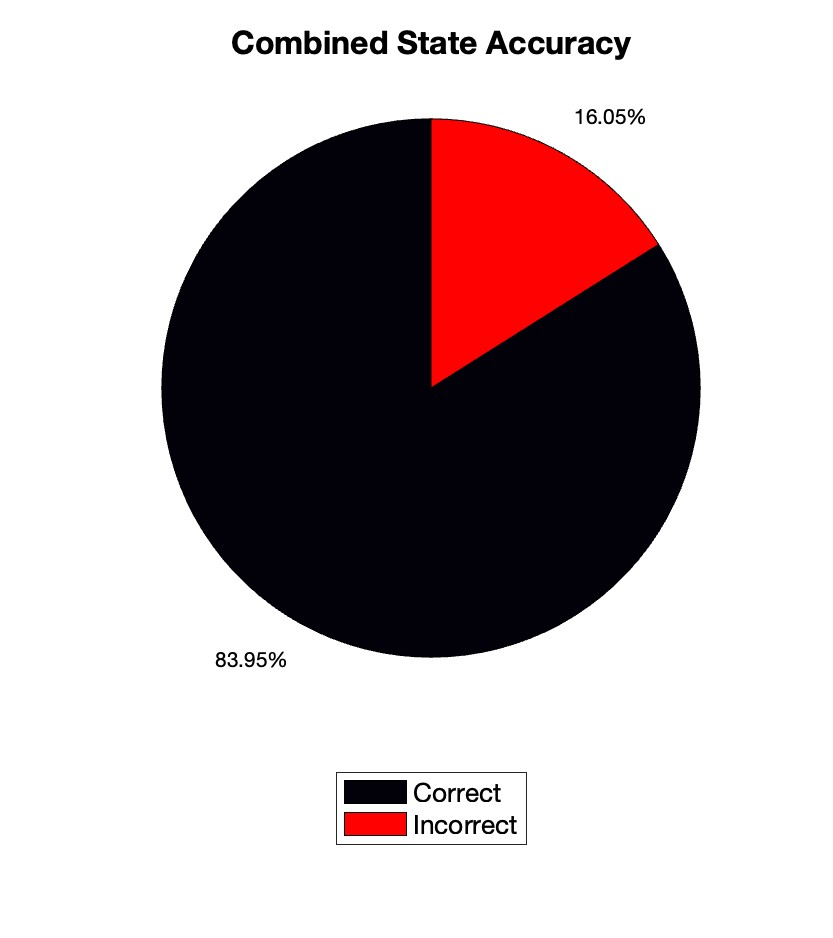
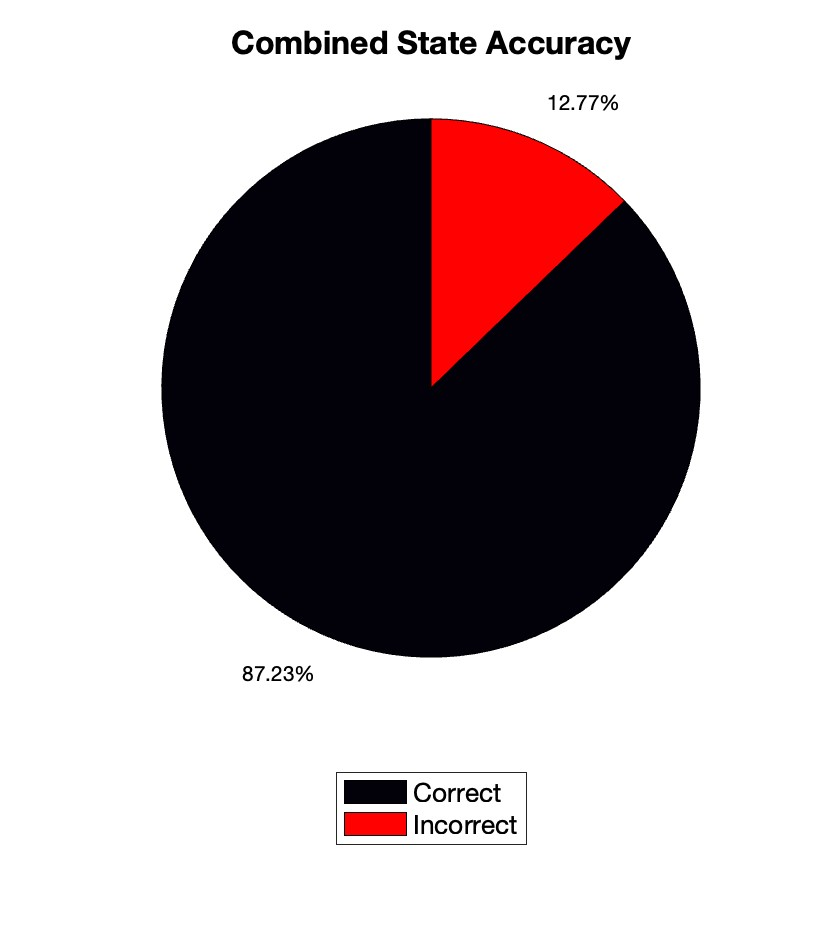
Working with Lezio, added 16 sessions of vole data, ~81% state match (see figures)

Changed region(s): [[0.5306, 0.2164, 0.8115, 0.4019], [0.6555, 0.0928, 0.7803, 0.1546], [0.2497, 0.6802, 0.3745, 0.742]]

diff --git a/run_voleAxyStates.m b/run_voleAxyStates.m
@@ -1,0 +1,139 @@
+basePath = '/Users/mattgaidica/Documents/MATLAB/WatsonLFPs/VoleData';
+files = dir2(basePath,'*.mat');
+
+% for squirrel-axy algorithm
+senseParams = {};
+senseParams.thresh = 0;
+senseParams.w_kmeans = 0;
+senseParams.w_temp = 0;
+senseParams.w_tempGrad = 0;
+senseParams.w_odba = 1;
+senseParams.sm_tempGrad = 0;
+senseParams.sm_odba = 1;
+senseParams.fixTransitions = 0;
+senseParams.offset_odba = 0;
+
+nFilt = 60; % dynamic ODBA filter
+windowSize = 5; % seconds
+nEpisodes = 1000; % episodes per subject
+
+actualStates = string;
+predictedStates = string;
+matchSum = 0; % running count of matched states
+episodeCount = 0; % across all subjects
+matchPerSubject = zeros(numel(files),1);
+
+for iFile = 1:numel(files)
+    fprintf("loading %s...\n",files(iFile).name);
+    load(fullfile(basePath,files(iFile).name));
+    % transform axy into 1Hz
+    axy = double(downsample(Accel3D,SamplFreqHz));
+    % apply ODBA filter
+    odba = filtGetOdba(axy,nFilt);
+    % set data we would have from squirrels to zeros
+    temp = zeros(size(odba)); % rm
+    nest = zeros(size(odba)); % rm
+    % run squirrel algorithm
+    [binNestSense,sense] = nestSenseAlg(temp,odba,nest,senseParams);
+
+    % pluck random episodes from axy data, compare with squirrel algorithm
+    oldMatchSum = matchSum;
+    for iEpisode = 1:nEpisodes
+        episodeCount = episodeCount + 1;
+        startTime = randi([1,numel(odba)-windowSize]); % random
+        tryRange = startTime:startTime+windowSize-1; % make into a range
+        actualStates(episodeCount) = findVoleState(SleepScoringSeconds,tryRange); % classify
+        % note: binNestSense is a sleep detector (1=sleep)
+        if all(binNestSense(tryRange)==1)
+            predictedStates(episodeCount) = "sleep";
+        elseif all(binNestSense(tryRange)==0)
+            predictedStates(episodeCount) = "wake";
+        else % if binNestSense(tryRange) is a mixture of 1's and 0's
+            predictedStates(episodeCount) = "transition";
+        end
+        % compare states based on sleep, wake, or transition to get
+        % prediction accuracy (ie, matchSum is how often states match)
+        if any(strcmp(actualStates(episodeCount),["nrem","rem"])) && strcmp(predictedStates(episodeCount),"sleep")
+            matchSum = matchSum + 1;
+        elseif any(strcmp(actualStates(episodeCount),["nwake","wake"])) && strcmp(predictedStates(episodeCount),"wake")
+            matchSum = matchSum + 1;
+        elseif strcmp(actualStates(episodeCount),"transition") && strcmp(predictedStates(episodeCount),"transition")
+            matchSum = matchSum + 1;
+        end % else do not increment
+    end
+    matchPerSubject(iFile,1) = (matchSum-oldMatchSum)/nEpisodes;
+end
+
+ff(600,300);
+bar(matchPerSubject,'FaceColor','k');
+ylabel('State Match Probability');
+xlabel('Recording Session');
+title('State Match Probability vs. Recording Session');
+set(gca,'fontsize',14);
+xticks(1:numel(files));
+saveas(gcf,'stateMatchProbability_voles.jpg');
+
+fprintf("state match: %i/%i = %1.2f%% (n=%i voles)\n",matchSum,episodeCount,100*matchSum/episodeCount,numel(files));
+%%
+close all;
+ff(1200,700);
+rows = 2;
+cols = 3;
+
+subplot(rows,cols,1:3);
+plot(odba,'k-');
+ylabel('3D-ODBA');
+
+yyaxis right;
+plot(-binNestSense,'r-','lineWidth',2);
+% hold on;
+% plot(-sense.nest,'color',[0,0,0,0.5],'LineStyle',':');
+ylim([-1 2]);
+xlabel('seconds');
+legend({'3D-ODBA (vole)','Algorithm Prediction'});
+set(gca,'ycolor','r');
+yticks([-1 0]);
+yticklabels({'sleep','wake'});
+% ylabel('algorithm');
+ylim([-4,2]);
+xlim([1,numel(odba)]);
+set(gca,'FontSize',14);
+title("Example Episode (n=1 vole)");
+
+subplot(rows,cols,4);
+p = pie([matchSum/episodeCount,1-matchSum/episodeCount],'%.2f%%');
+colors = magma;
+p(1).FaceColor = colors(1,:,:);
+p(3).FaceColor = colors(end,:,:);
+title('Combined State Accuracy');
+set(gca,'FontSize',14);
+legend({'Correct','Incorrect'},'location','southoutside');
+
+counts = [sum(strcmp(actualStates,"nrem")),sum(strcmp(actualStates,"rem")),sum(strcmp(actualStates,"wake")),...
+    sum(strcmp(actualStates,"nwake")),sum(strcmp(actualStates,"transition"))] ./ episodeCount;
+countLabels = {"NREM","REM","WAKE","NOISY WAKE","TRANSITION"};
+subplot(rows,cols,5);
+lc = lines(5);
+colors = [lc(1,:);lc(1,:);lc(3,:);lc(3,:);lc(5,:)];
+bar(counts,'FaceColor', 'flat', 'CData', colors);
+xticks(1:numel(countLabels));
+xticklabels(countLabels);
+set(gca,'fontSize',14);
+title(sprintf("Actual States\n%i episodes, %i subjects",episodeCount,numel(files)));
+ylabel("Episode Probability");
+% ylim([0,0.75]);
+xtickangle(30);
+
+counts = [sum(strcmp(predictedStates,"sleep")),sum(strcmp(predictedStates,"wake")),sum(strcmp(predictedStates,"transition"))] ./ nEpisodes;
+countLabels = {"SLEEP","WAKE","TRANSITION"};
+subplot(rows,cols,6);
+colors = [lc(1,:);lc(3,:);lc(5,:)];
+b = bar(counts,'FaceColor', 'flat', 'CData', colors);
+xticks(1:numel(countLabels));
+xticklabels(countLabels);
+set(gca,'fontSize',14);
+title(sprintf("Predicted States\n%i episodes, %i subjects",episodeCount,numel(files)));
+ylabel("Episode Probability");
+xtickangle(30);
+% ylim([0,0.75]);
+saveas(gcf,'voleAxyStates_allSessions.jpg');

diff --git a/run_compileSurrogates.m b/run_compileSurrogates.m
@@ -4,7 +4,7 @@ basePath = '/Users/mattgaidica/Documents/MATLAB/WatsonLFPs/CRCNS/fcx-1/data';
 % 1)pick random time point 2)test for known state 3)include/exclude->save
 
 nSurr = 100;
-timeWindow = 120; % seconds
+timeWindow = 10; % seconds
 ratioThresh = 0.5;
 % TT = readtable("transitionTable.txt");
 load('TTransition');
@@ -122,7 +122,7 @@ for ii = 1:length(files)
         subject(tableRow,1) = string(files(ii).name);
         motion_data(tableRow,1) = {double(motiondata.motion)};
         % fixed at 60s
-        filt_data(tableRow,1) = {double(sqrt((motiondata.motion - movmean(motiondata.motion,60)).^2))};
+        filt_data(tableRow,1) = {double( abs(motiondata.motion - medfilt1(motiondata.motion,60)) )};
         segment_range{tableRow,1} = this_range;
         segment_class{tableRow,1} = this_class;
         sleep_class{tableRow,1} = this_sleep_class;

diff --git a/findVoleState.m b/findVoleState.m
@@ -1,0 +1,19 @@
+function states = findVoleState(SleepScoringSeconds,tryRange)
+
+
+stateLabels = {"wake","nwake","nrem","rem"};
+fields = fieldnames(SleepScoringSeconds);
+for iField = 1:numel(fields)
+    fieldName = fields{iField};
+    fieldValue = SleepScoringSeconds.(fieldName);
+    states = "transition"; % init/default
+    for ii = 1:size(fieldValue,1)
+        if tryRange(1) >= fieldValue(ii,1) &&...
+                tryRange(end) < fieldValue(ii,2)
+            states = stateLabels{iField};
+            return ; % found it
+        end
+    end
+end
+
+

diff --git a/run_compareSurrogates.m b/run_compareSurrogates.m
@@ -176,6 +176,7 @@ xtickangle(60);
 p = get(gca,"Position");
 set(gca,'Position',[p(1) p(2)+0.14 p(3) p(4)-0.28]);
 set(gca,'FontSize',14);
+ylim([0 0.7]);
 
 
 subplot(rows,cols,4);
@@ -189,7 +190,7 @@ bar(1:numel(sumArray),sumArray./sum(sumArray),'FaceColor', 'flat', 'CData', colo
 xticklabels(allActual_labels);
 ylabel('Fraction of Episodes');
 title('Actual');
-ylim([0 0.5]);
+ylim([0 0.7]);
 xtickangle(60);
 p = get(gca,"Position");
 set(gca,'Position',[p(1) p(2)+0.14 p(3) p(4)-0.28]);

diff --git a/filtGetOdba.m b/filtGetOdba.m
@@ -1,0 +1,16 @@
+function odba = filtGetOdba(axy,nFilt)
+stdThresh = 3000;
+
+x_odba = abs(axy(:,1)-medfilt1(axy(:,1),nFilt));
+x_std = movstd(x_odba,nFilt);
+x_odba(x_std > stdThresh) = 0;
+
+y_odba = abs(axy(:,2)-medfilt1(axy(:,2),nFilt));
+y_std = movstd(y_odba,nFilt);
+y_odba(y_std > stdThresh) = 0;
+
+z_odba = abs(axy(:,3)-medfilt1(axy(:,3),nFilt));
+z_std = movstd(z_odba,nFilt);
+z_odba(z_std > stdThresh) = 0;
+
+odba = x_odba + y_odba + z_odba;
